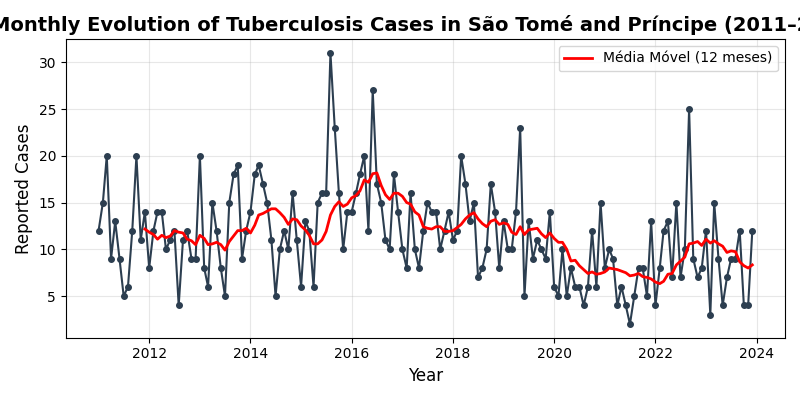
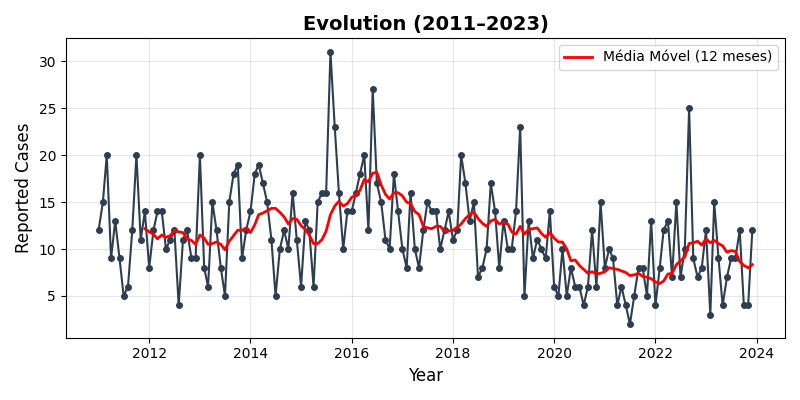
dd

diff --git a/code1.py b/code1.py
@@ -88,7 +88,7 @@ plt.figure(figsize=(8, 4))
 plt.plot(df_final.index, df_final['Casos'], marker='o', markersize=4, linestyle='-', color='#2c3e50', linewidth=1.5)
 
 # Títulos
-plt.title('Monthly Evolution of Tuberculosis Cases in São Tomé and Príncipe (2011–2023)', fontsize=14, fontweight='bold')
+plt.title('Evolution (2011–2023)', fontsize=14, fontweight='bold')
 plt.ylabel('Reported Cases', fontsize=12)
 plt.xlabel('Year', fontsize=12)
 
